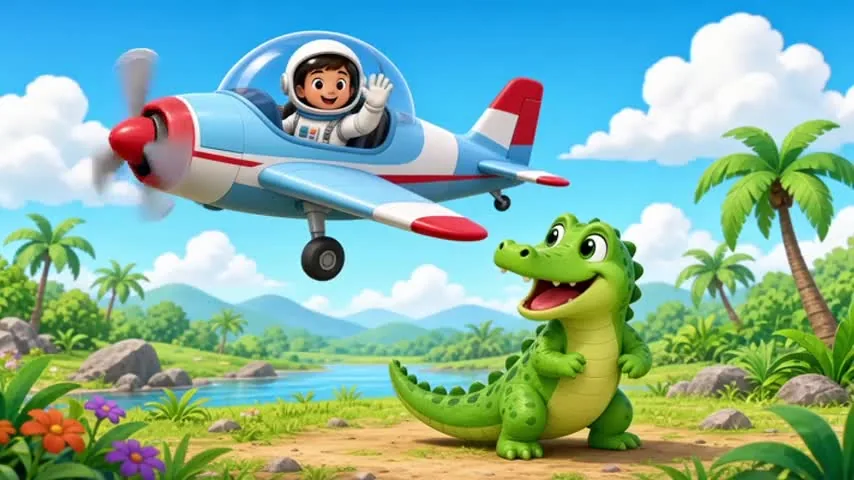
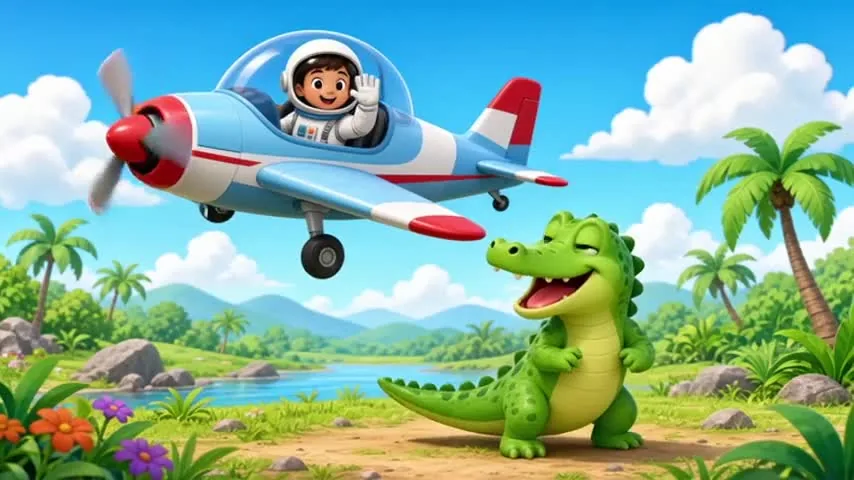
v0.239: A story scene 2 flies forward; punchier clip SFX; video QA plan.

diff --git a/src/lib/version.ts b/src/lib/version.ts
@@ -12,7 +12,7 @@
  * Grok Publish: still remind at v0.070, v0.080… so the public link can match.
  */
 
-export const APP_VERSION = "0.238";
+export const APP_VERSION = "0.239";
 export const APP_VERSION_LABEL = `v${APP_VERSION}`;
 export const APP_SLUG = "abc-adventure";
 export const APP_DISPLAY_NAME = "ABC Adventure";

diff --git a/AGENTS.project.md b/AGENTS.project.md
@@ -89,6 +89,29 @@ single-story a, not Comic Neue (too thin/tall) and not Sniglet ExtraBold.
 - **Ship order:** prototype **little a / b / c** Meet + the page toggle.
   Don’t dump 26 little Meets. Same as Big: a few, they watch, then more.
 
+## Video QA plan (remind on ask)
+
+If they ask for the video QA / quality plan, **remind them of this**. Saved
+2026-09-17 after A-story scene 2 flew the plane backward.
+
+Do not ship a clip that fails any of these. Not “looks mostly ok.”
+
+1. **Dump 5 frames** (start / 25 / mid / 75 / end) and **look at all five**.
+   Thumbnail-only QA is how reverse motion ships.
+2. **Motion vs prompt.** If it should fly/walk/roll one way, compare start
+   vs end. Backward, moonwalk, or a snap-reverse at the end = redo. Plane
+   going left-to-right must still face and travel that way in the last
+   frames.
+3. **Clearly wrong** (user’s bar, not crayon-point nitpicks): extra limbs,
+   faces on the back, hole that isn’t a hole, not the letter, morphing,
+   creepy faces on food. One of those in any frame = redo.
+4. **Sound for “Video sound” mode.** Native Imagine foley is often thin
+   ambience. Mix kid SFX on export (whoosh, pop, sparkle, waves, chime)
+   so the clip is not boring. Don’t ship near-silent as the video-sound
+   option. Narration mode still mutes the clip.
+5. **New story/word clips** go in a folder the preview actually serves
+   (`public/story-clips/`, not a *new* file under ignored `public/videos/`).
+
 ## Word videos
 
 1. Sentence = what is on screen. Write sentence + clip together. Approve

diff --git a/PROJECT.md b/PROJECT.md
@@ -113,7 +113,7 @@ npm run build:apk      # only when asked
 
 ## Versioning & downloads
 
-- **Current version:** `0.238` (`v0.238`) — stored in `VERSION` and `src/lib/version.ts` (keep in sync).
+- **Current version:** `0.239` (`v0.239`) — stored in `VERSION` and `src/lib/version.ts` (keep in sync).
 
 ## GitHub + Grok Publish cadence
 

diff --git a/SESSION.md b/SESSION.md
@@ -1,6 +1,6 @@
 # Session compact — ABC Adventure
 
-**Version:** v0.238  
+**Version:** v0.239  
 **GitHub:** sh4gu4dummy-arch/abc-adventure `main`  
 Always **commit + push** ABC updates the same turn. Tell them the version.
 **Never** push Grok sandbox internals (`.grok/`, attachments, skill dumps).  
